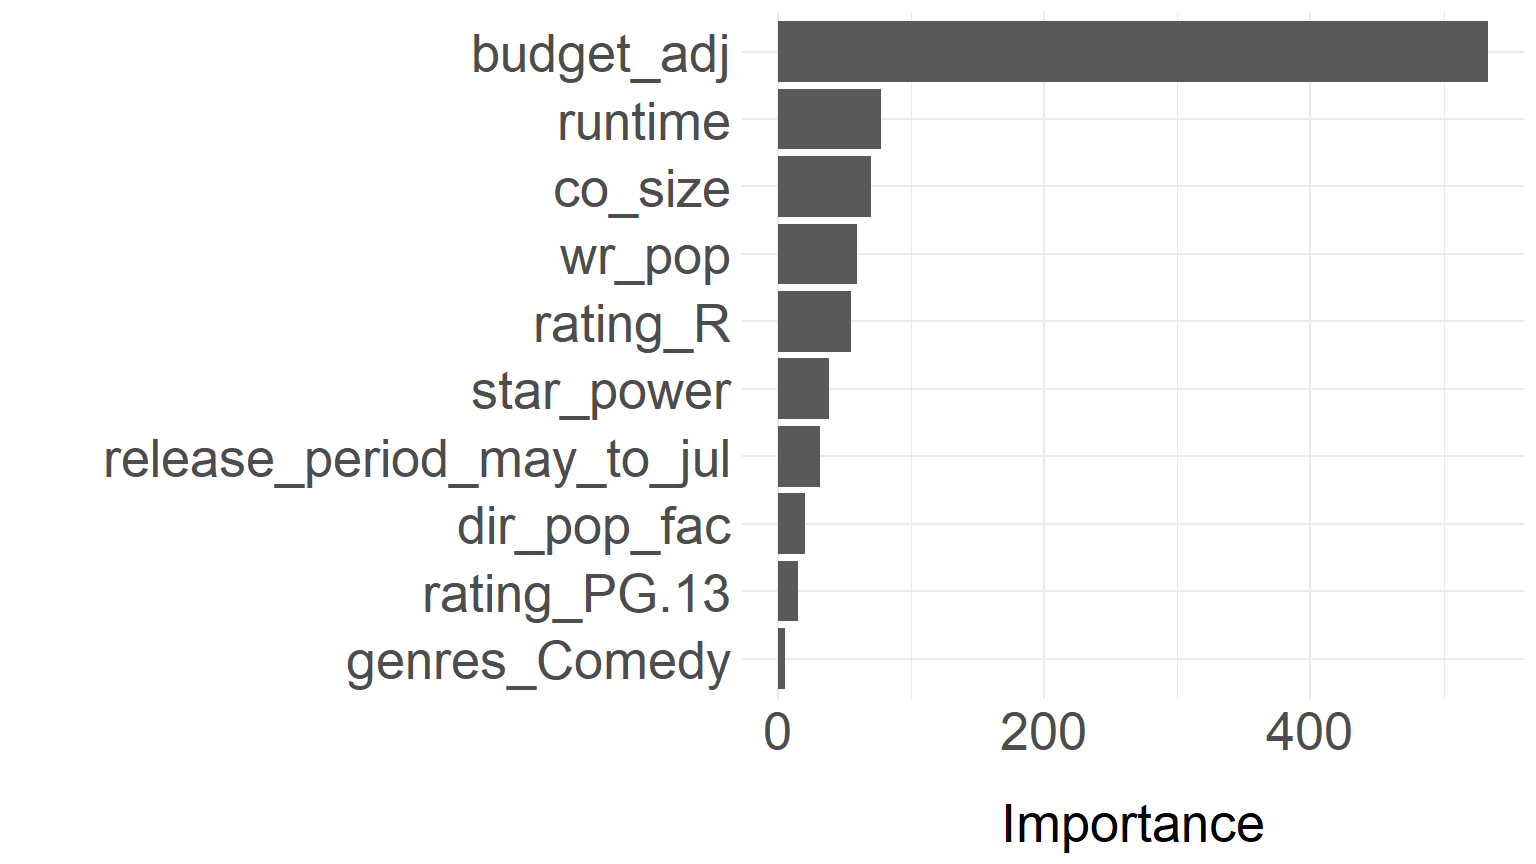
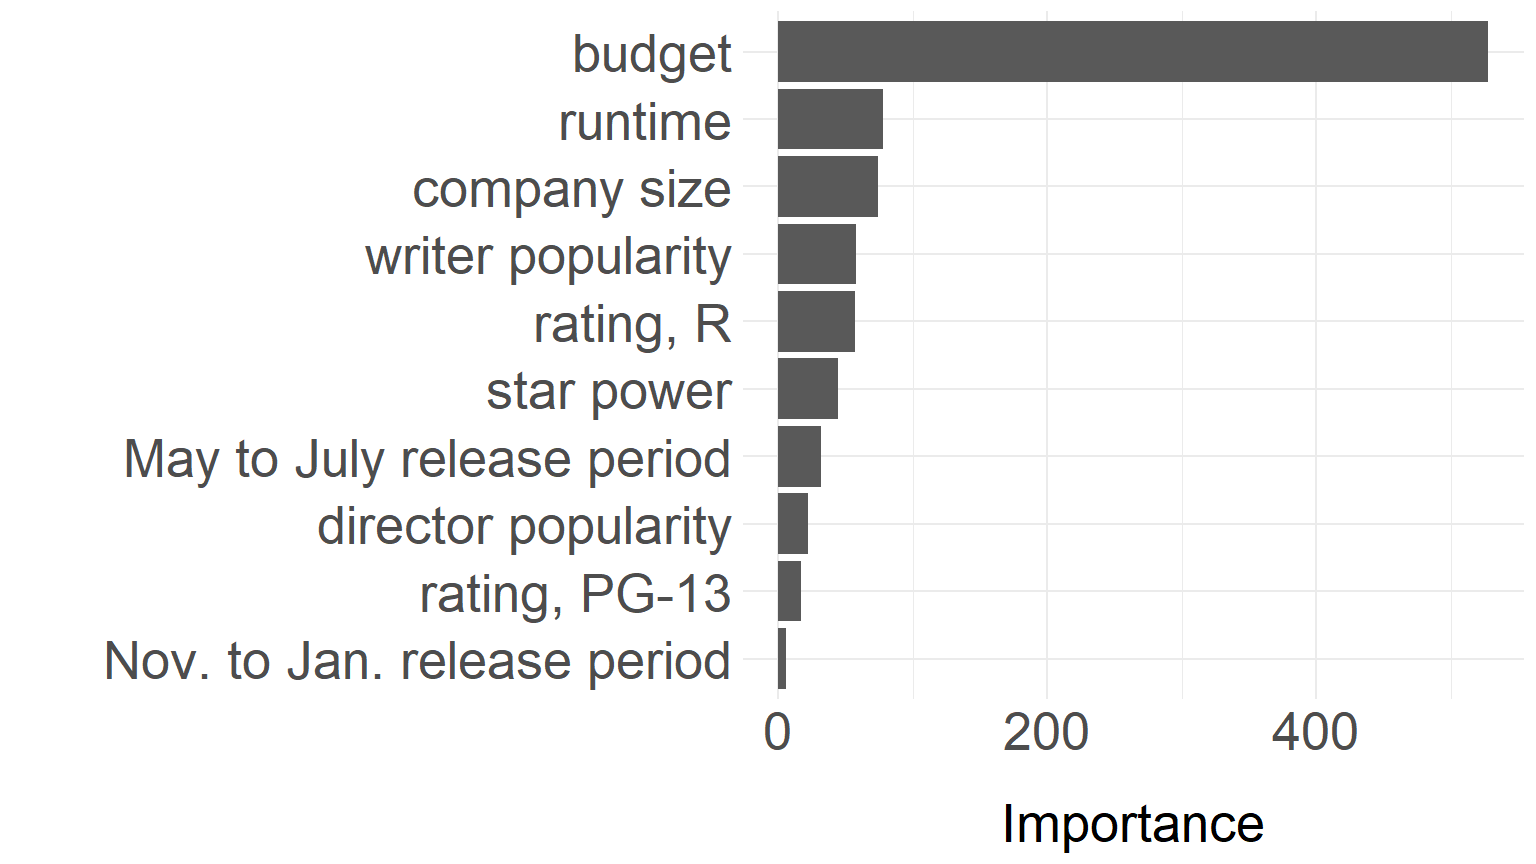
made var naming updates to plots

diff --git a/predictive_analysis/lm_summary.tex b/predictive_analysis/lm_summary.tex
@@ -1,22 +1,21 @@
 \begin{table}[ht]
 \centering
-\begin{tabular}{llr}
+\begin{tabular}{llrr}
   \hline
-Coefficients & Estimate & Std. Error & P-Value \\ 
+Coefficients & Estimate & Std. Error & P-Value \\
   \hline
 (Intercept) & 93.9317 & 1.2583 & 2e-16 \\
-budget_adj & 16.7476 & 0.7439 & 2e-16 \\
+budget\_adj & 16.7476 & 0.7439 & 2e-16 \\
 runtime & 2.3632 & 0.6835 & 0.000557 \\
-dir_pop_fac & -0.1901 & 0.6980 & 0.785423 \\  
-release_periodfeb_to_apr & -0.5301 & 1.7848 & 0.766505 \\  
-release_periodmay_to_jul & 8.4182 & 1.7899 & 2.74e-06 \\
-release_periodnov_to_jan & 4.4887 & 1.7222 & 0.009221 \\
-co_size & 4.1257 & 0.6689 & 8.42e-10 \\ 
-star_power & 0.1404 & 0.6969 & 0.840306 \\   
-wr_pop & 3.2517 & 0.6485 & 5.80e-07 \\
+dir\_pop\_fac & -0.1901 & 0.6980 & 0.785423 \\
+release\_periodfeb\_to\_apr & -0.5301 & 1.7848 & 0.766505 \\
+release\_periodmay\_to\_jul & 8.4182 & 1.7899 & 2.74e-06 \\
+release\_periodnov\_to\_jan & 4.4887 & 1.7222 & 0.009221 \\
+co\_size & 4.1257 & 0.6689 & 8.42e-10 \\
+star\_power & 0.1404 & 0.6969 & 0.840306 \\
+wr\_pop & 3.2517 & 0.6485 & 5.80e-07 \\
    \hline
 \end{tabular}
 \caption{Summary of Box-Office Profit Linear Model} 
 \label{tab:lm_sum}
 \end{table}
-

diff --git a/predictive_analysis/pr_rc_oscar_nom.tex b/predictive_analysis/pr_rc_oscar_nom.tex
@@ -8,7 +8,7 @@ Random Forest & 0.685 & 0.420 \\
 Logistic Regression & 0.702 & 0.431 \\
    \hline
 \end{tabular}
-\caption{Summary of Box-Office Profit Linear Model} 
-\label{tab:lm_sum}
+\caption{Precision and Recall Comparison} 
+\label{tab:p_r_comp}
 \end{table}
 
